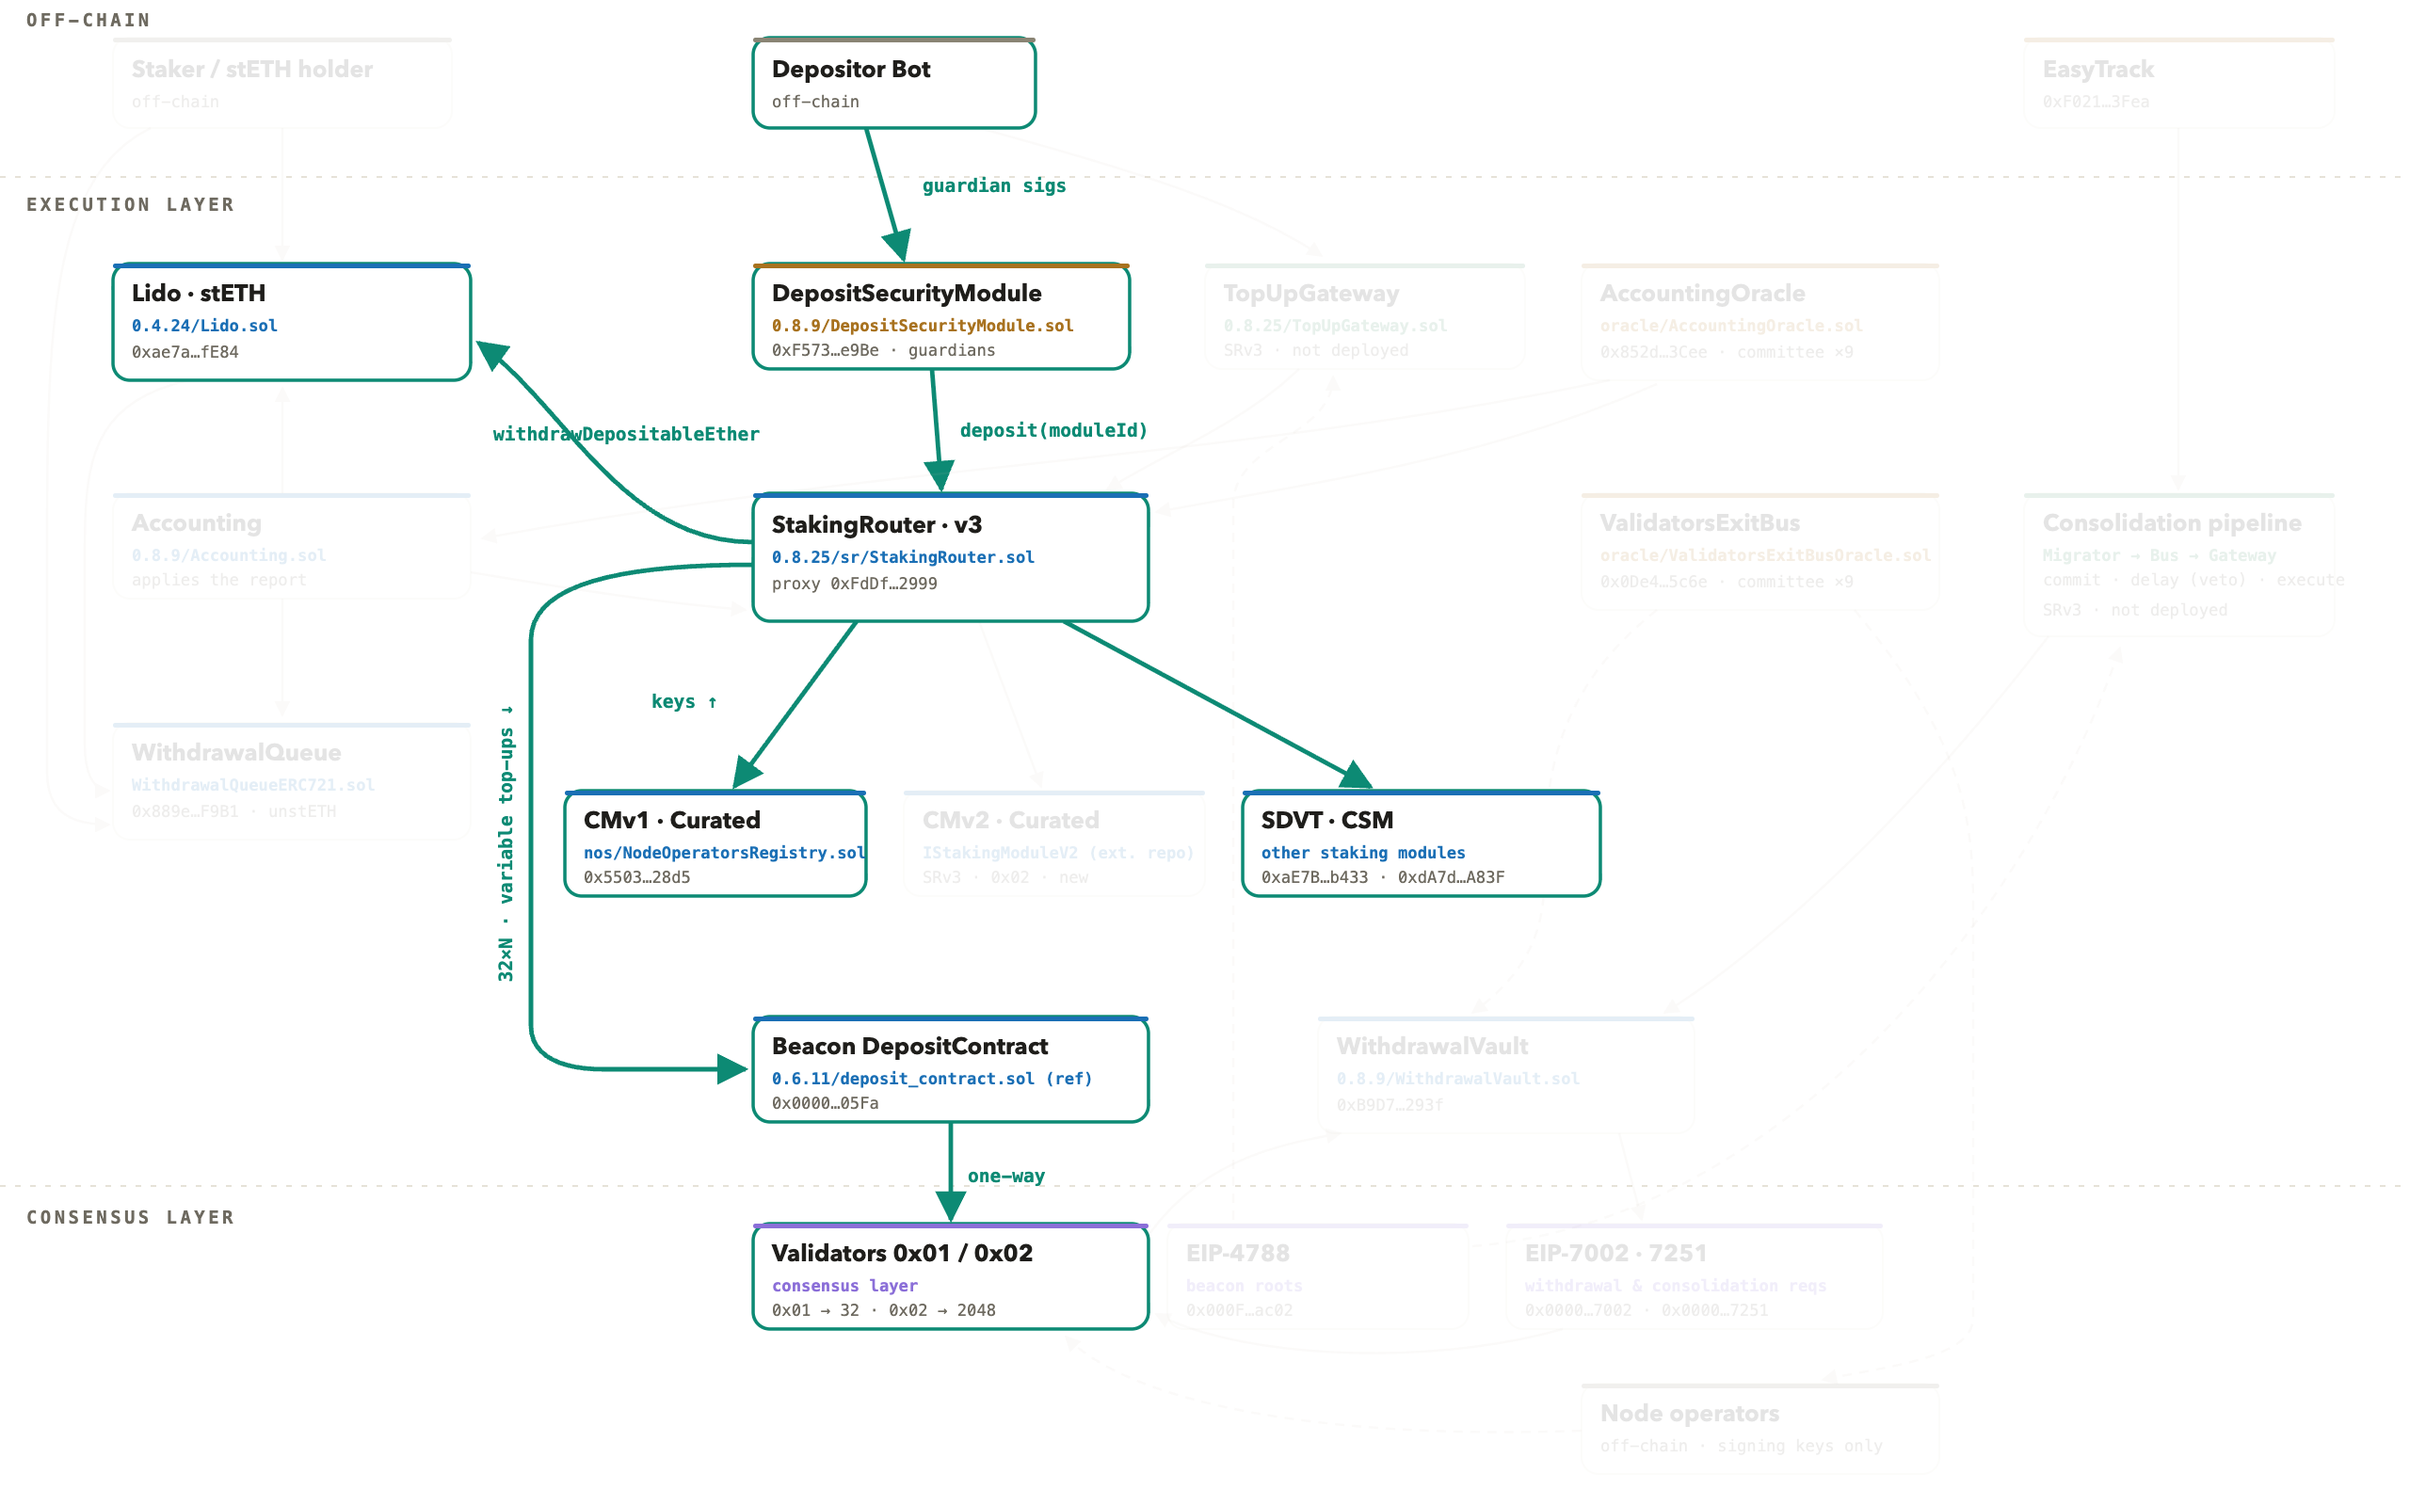
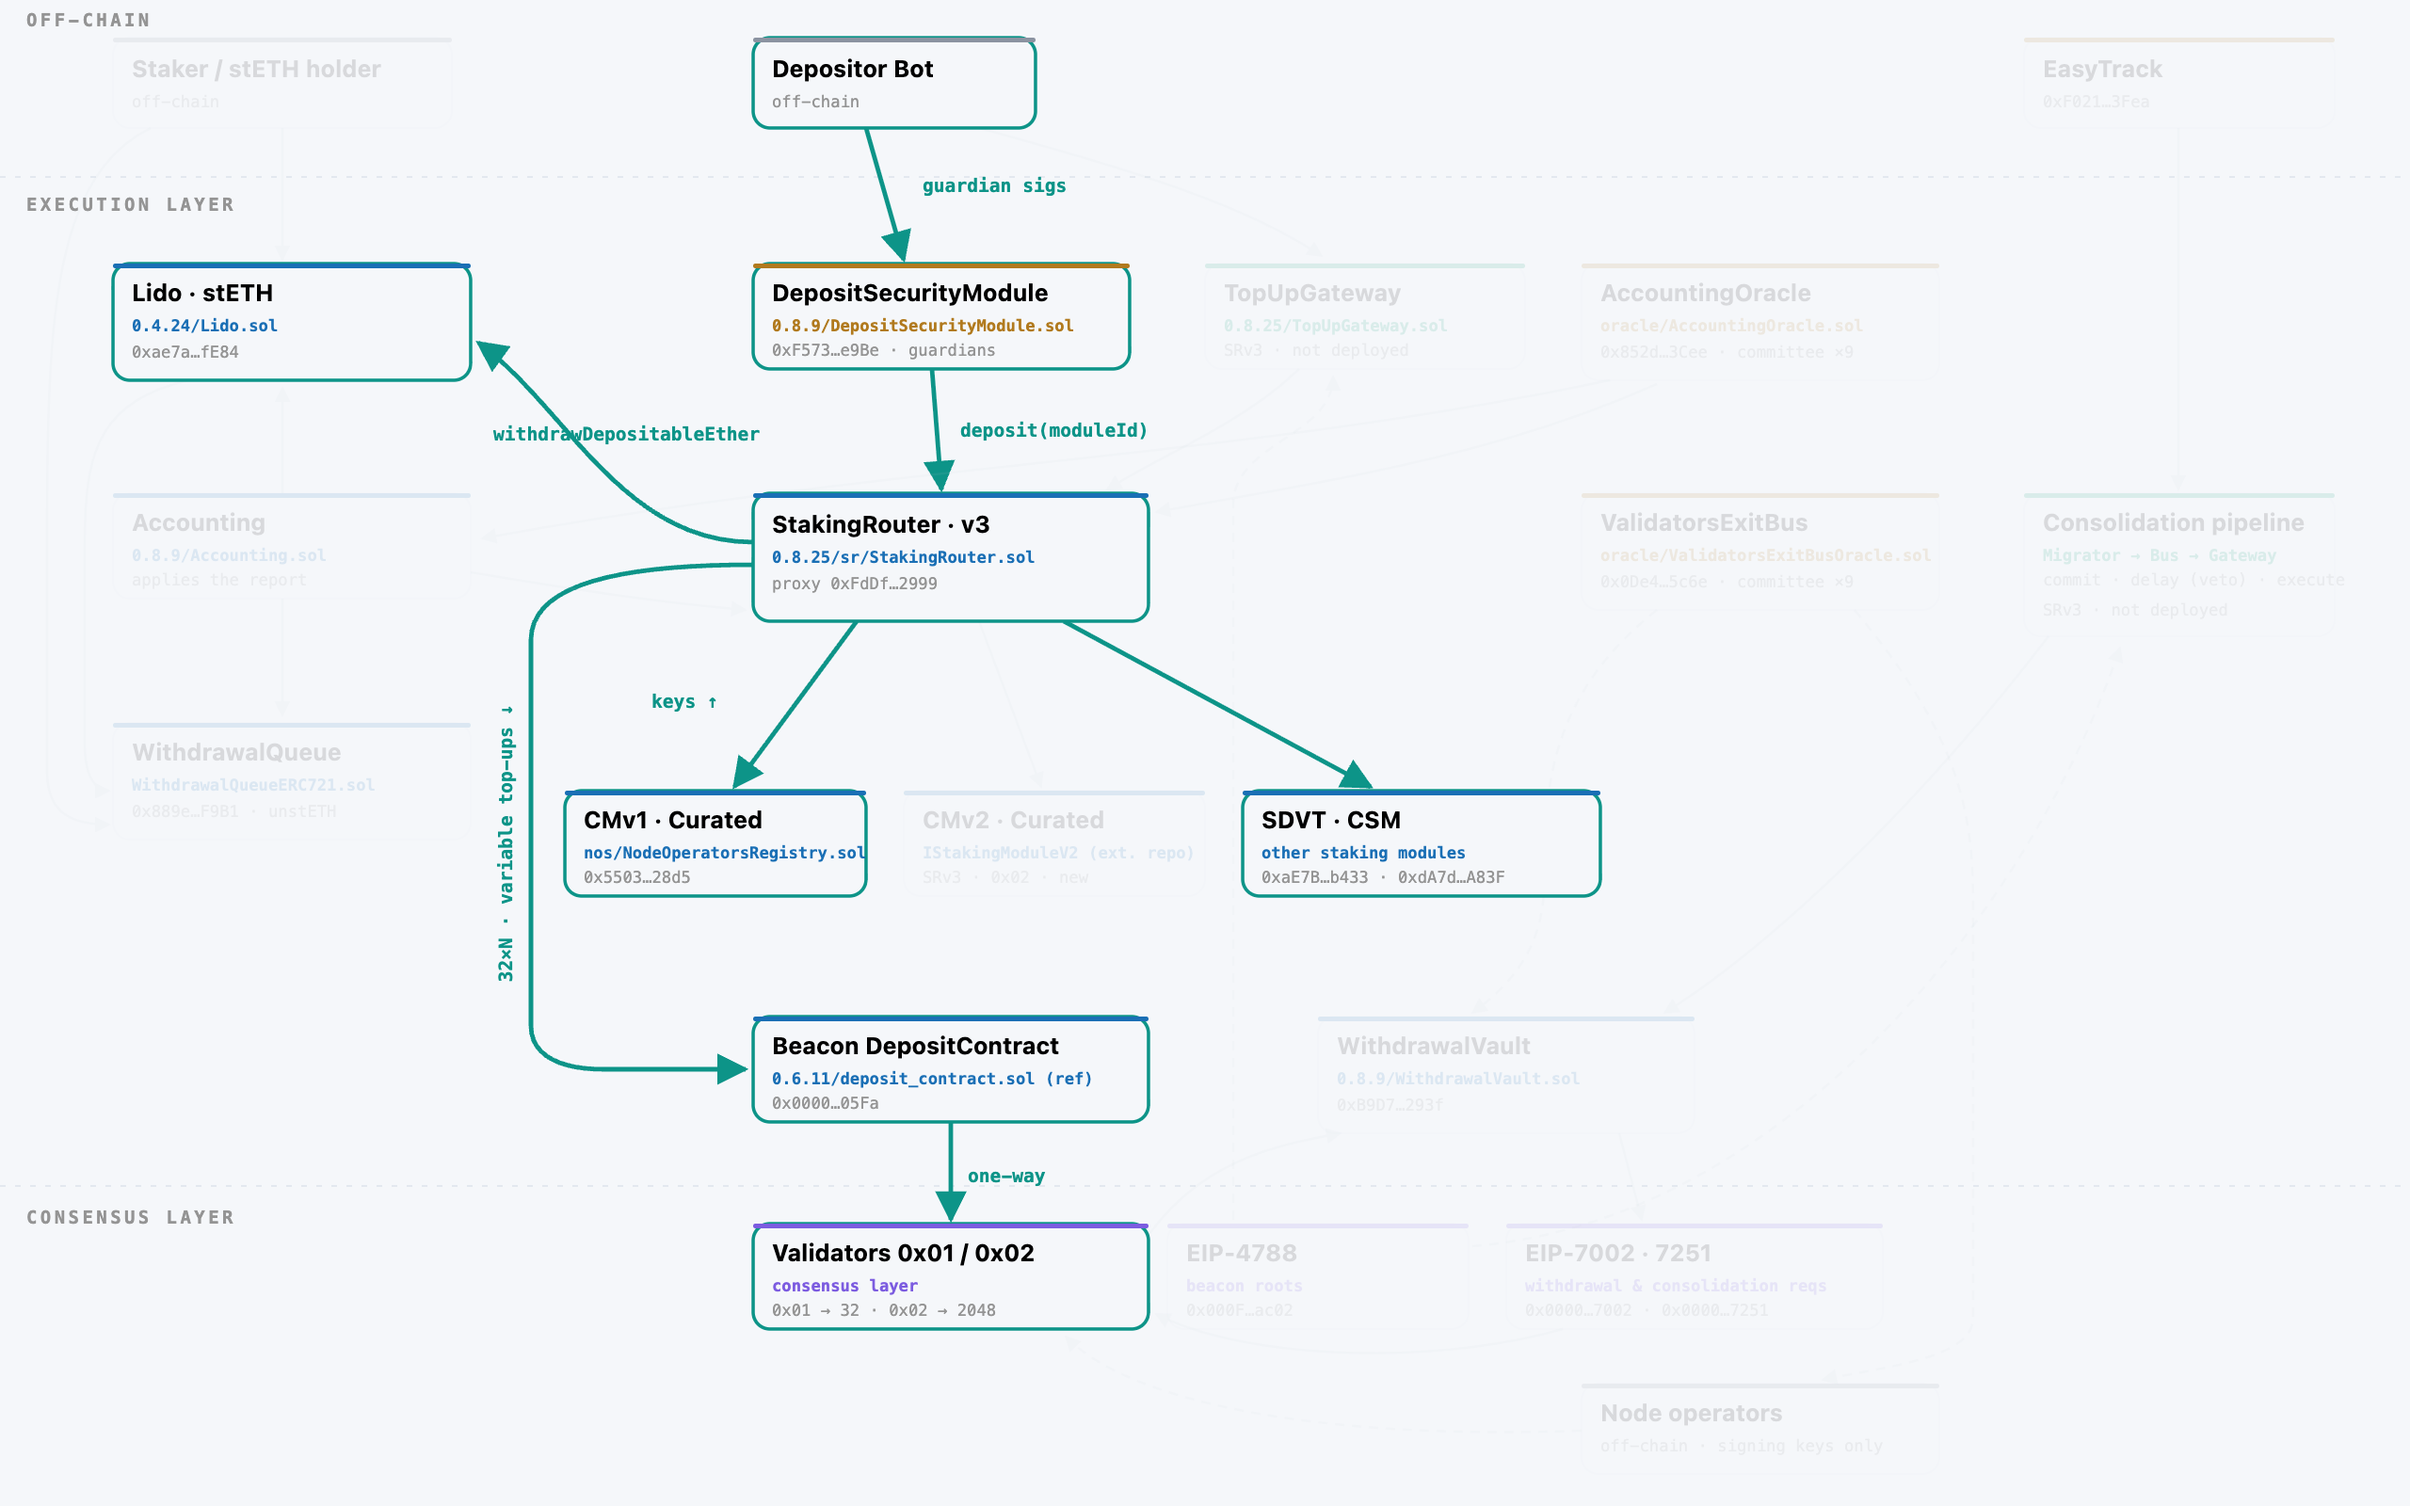
Restyle diagram to match lfglabs.dev design system
Plus Jakarta Sans, teal accent, black headings, #f5f7fa cards on white,
single light theme; exports regenerated with the new palette

diff --git a/diagram/index.html b/diagram/index.html
@@ -3,83 +3,66 @@
 <head>
 <meta charset="utf-8">
 <meta name="viewport" content="width=device-width,initial-scale=1">
+<link rel="preconnect" href="https://fonts.googleapis.com">
+<link rel="preconnect" href="https://fonts.gstatic.com" crossorigin>
+<link href="https://fonts.googleapis.com/css2?family=Plus+Jakarta+Sans:wght@400;500;600;700;800&display=swap" rel="stylesheet">
 <title>Lido Architecture: Components & Flows</title>
 </head>
 <body style="margin:0">
 <style>
   :root{
-    --paper:#faf9f5; --card:#ffffff; --ink:#1f1e1b; --soft:#6e6a60;
-    --line:#e6e2d8; --line2:#f1eee6; --edge:#c7bfae;
-    --accent:#c15f3c;
-    --el:#1a6fb5; --cl:#8b6fd8; --com:#a8721f; --bot:#8a8474; --proof:#3d8a63;
-    --cf1:#1a75c0; --cf2:#0d8a74; --cf3:#67921a; --cf4:#bd7c17; --cf5:#c15f3c; --cf6:#8a5cf6; --cf7:#b44487;
+    --paper:#ffffff; --card:#f5f7fa; --ink:#404040; --heading:#000000; --soft:#949494;
+    --line:#e3e8ef; --line2:#eef1f6; --edge:#c3ccd7;
+    --accent:#2dd4bf; --accent-ink:#0d9488;
+    --el:#1a6fb5; --cl:#7c5ce0; --com:#b17a1e; --bot:#8b93a1; --proof:#0f9e77;
+    --cf1:#1a75c0; --cf2:#0d9488; --cf3:#67921a; --cf4:#bd7c17; --cf5:#d0523a; --cf6:#8a5cf6; --cf7:#b44487;
     --mono:ui-monospace,'SF Mono',Menlo,Consolas,monospace;
-    --serif:'Charter','Iowan Old Style',Georgia,'Times New Roman',serif;
-  }
-  @media (prefers-color-scheme: dark){
-    :root{
-      --paper:#262624; --card:#30302e; --ink:#f0efea; --soft:#b0aa9e;
-      --line:#413f3a; --line2:#393733; --edge:#5c574c;
-      --accent:#d97757;
-      --el:#5aa8e8; --cl:#ab93f2; --com:#d9a34e; --bot:#a09a8c; --proof:#54bd8e;
-      --cf1:#54a4ea; --cf2:#33b89e; --cf3:#9ec13e; --cf4:#dda43e; --cf5:#e28565; --cf6:#a88af8; --cf7:#e07cba;
-    }
-  }
-  :root[data-theme="dark"]{
-    --paper:#262624; --card:#30302e; --ink:#f0efea; --soft:#b0aa9e;
-    --line:#413f3a; --line2:#393733; --edge:#5c574c;
-    --accent:#d97757;
-    --el:#5aa8e8; --cl:#ab93f2; --com:#d9a34e; --bot:#a09a8c; --proof:#54bd8e;
-    --cf1:#54a4ea; --cf2:#33b89e; --cf3:#9ec13e; --cf4:#dda43e; --cf5:#e28565; --cf6:#a88af8; --cf7:#e07cba;
-  }
-  :root[data-theme="light"]{
-    --paper:#faf9f5; --card:#ffffff; --ink:#1f1e1b; --soft:#6e6a60;
-    --line:#e6e2d8; --line2:#f1eee6; --edge:#c7bfae;
-    --accent:#c15f3c;
-    --el:#1a6fb5; --cl:#8b6fd8; --com:#a8721f; --bot:#8a8474; --proof:#3d8a63;
-    --cf1:#1a75c0; --cf2:#0d8a74; --cf3:#67921a; --cf4:#bd7c17; --cf5:#c15f3c; --cf6:#8a5cf6; --cf7:#b44487;
+    --sans:'Plus Jakarta Sans',system-ui,-apple-system,'Segoe UI',Roboto,sans-serif;
   }
 
   body{
     background:var(--paper); color:var(--ink);
-    font-family:"Avenir Next","Segoe UI",-apple-system,"Helvetica Neue",sans-serif;
-    font-size:14.5px; line-height:1.5;
+    font-family:var(--sans);
+    font-size:14.5px; line-height:1.55; letter-spacing:-0.02em;
     padding:clamp(14px,3vw,40px) clamp(10px,2.5vw,28px);
+    -webkit-font-smoothing:antialiased;
   }
   .wrap{max-width:1320px;margin:0 auto}
-  .kicker{font-family:var(--mono);font-size:.62rem;font-weight:700;letter-spacing:.16em;text-transform:uppercase;color:var(--accent);margin-bottom:8px}
-  header h1{font-family:var(--serif);font-size:clamp(1.5rem,3.4vw,2.05rem);font-weight:600;letter-spacing:-.01em;text-wrap:balance}
-  header p{color:var(--soft);max-width:76ch;margin-top:7px;font-size:.88rem}
-  header p b{color:var(--ink);font-weight:600}
+  .kicker{display:inline-flex;align-items:center;font-family:var(--mono);font-size:.62rem;font-weight:700;
+          letter-spacing:.14em;text-transform:uppercase;color:var(--accent-ink);
+          background:rgba(45,212,191,.12);border-radius:999px;padding:3px 11px;margin-bottom:10px}
+  header h1{font-size:clamp(1.5rem,3.4vw,2rem);font-weight:800;letter-spacing:-.03em;color:var(--heading);text-wrap:balance}
+  header p{color:var(--ink);max-width:76ch;margin-top:7px;font-size:.88rem}
+  header p b{color:var(--heading);font-weight:700}
 
-  .legend{display:flex;flex-wrap:wrap;gap:6px;margin-top:10px;font-family:var(--mono);font-size:9.5px}
-  .legend span{display:inline-flex;align-items:center;gap:5px;padding:2px 9px;border-radius:99px;border:1px solid var(--line);background:var(--card);color:var(--soft)}
+  .legend{display:flex;flex-wrap:wrap;gap:6px;margin-top:12px;font-family:var(--mono);font-size:9.5px}
+  .legend span{display:inline-flex;align-items:center;gap:5px;padding:3px 10px;border-radius:99px;background:var(--card);color:var(--soft)}
   .dot{width:7px;height:7px;border-radius:2px;flex:none}
 
   /* flow pills */
   .fbar{display:flex;flex-wrap:wrap;gap:6px;margin:18px 0 8px}
   .pill{
     display:inline-flex;align-items:center;gap:7px;
-    background:var(--card);border:1.5px solid var(--line);border-radius:999px;
-    padding:6px 13px;cursor:pointer;font:inherit;font-size:.78rem;font-weight:600;color:var(--ink);
-    transition:border-color .12s,background .12s;
+    background:#fff;border:1.5px solid var(--line);border-radius:999px;
+    padding:6px 13px;cursor:pointer;font:inherit;font-size:.78rem;font-weight:600;color:var(--heading);
+    letter-spacing:-0.01em;transition:border-color .12s,background .12s;
   }
   .pill i{width:9px;height:9px;border-radius:3px;background:var(--fc);flex:none}
   .pill b{font-family:var(--mono);font-size:.55rem;font-weight:700;letter-spacing:.05em;text-transform:uppercase;
           padding:1px 6px;border-radius:99px;background:var(--line2);color:var(--soft)}
-  .pill b.new{background:var(--fc);color:var(--paper)}
-  .pill[aria-pressed="true"]{border-color:var(--fc);background:color-mix(in srgb,var(--fc) 10%,var(--card))}
-  .pill:focus-visible,.reset:focus-visible{outline:2px solid var(--cf1);outline-offset:2px}
+  .pill b.new{background:var(--fc);color:#fff}
+  .pill[aria-pressed="true"]{border-color:var(--fc);background:color-mix(in srgb,var(--fc) 9%,#fff)}
+  .pill:focus-visible,.reset:focus-visible{outline:2px solid var(--accent);outline-offset:2px}
   .reset{background:none;border:1.5px dashed var(--line);border-radius:999px;color:var(--soft);
          font:inherit;font-size:.75rem;cursor:pointer;padding:6px 13px}
-  .reset:hover{color:var(--ink)}
+  .reset:hover{color:var(--heading);border-color:var(--accent)}
   .fcap{min-height:2.6em;font-size:.78rem;color:var(--soft);margin-bottom:10px;max-width:90ch}
-  .fcap b{font-weight:650}
+  .fcap b{font-weight:700}
   @media (prefers-reduced-motion: reduce){ .pill{transition:none} .edge path,.node rect,.node text{transition:none!important} }
 
   /* diagram */
-  .canvas{overflow-x:auto;-webkit-overflow-scrolling:touch;border:1px solid var(--line);border-radius:16px;background:var(--card);box-shadow:0 1px 3px rgba(31,30,27,.05)}
-  svg{display:block;min-width:1080px;width:100%;height:auto}
+  .canvas{overflow-x:auto;-webkit-overflow-scrolling:touch;border:1px solid var(--line);border-radius:12px;background:#fff;box-shadow:0 1px 2px rgba(0,0,0,.04)}
+  svg{display:block;min-width:1080px;width:100%;height:auto;letter-spacing:0}
   .panhint{display:none;font-size:.7rem;color:var(--soft);text-align:center;margin-top:6px}
   @media (max-width:1120px){ .panhint{display:block} }
   .sep{stroke:var(--line);stroke-dasharray:3 5}
@@ -87,7 +70,7 @@
 
   .node rect.box{fill:var(--card);stroke:var(--line);transition:opacity .15s}
   .node rect.top,.node text{transition:opacity .15s}
-  .node .nm{font:650 12.5px "Avenir Next","Segoe UI",sans-serif;fill:var(--ink)}
+  .node .nm{font:700 12.5px var(--sans);fill:var(--heading)}
   .node .fl{font:600 8.6px var(--mono)}
   .node .ad{font:500 8.6px var(--mono);fill:var(--soft)}
   .node.el .fl{fill:var(--el)} .node.com .fl{fill:var(--com)} .node.proof .fl{fill:var(--proof)}
@@ -105,22 +88,22 @@
   .edge.on path{stroke:var(--hl);stroke-width:2.2}
 
   /* component notes */
-  .notes h2{font-family:var(--serif);font-size:1rem;font-weight:600;color:var(--ink);
+  .notes h2{font-size:.98rem;font-weight:700;letter-spacing:-.01em;color:var(--heading);
      padding-bottom:6px;border-bottom:1px solid var(--line);margin:28px 0 10px}
-  .notes h2 b{font-weight:400;font-style:italic;color:var(--soft);font-size:.88em}
+  .notes h2 b{font-weight:500;color:var(--soft);font-size:.86em}
   .band{display:grid;grid-template-columns:repeat(auto-fill,minmax(230px,1fr));gap:8px}
   .c{background:var(--card);border:1px solid var(--line);border-left:3px solid var(--tc,var(--line));
-     border-radius:9px;padding:9px 12px;display:flex;flex-direction:column;gap:2px}
+     border-radius:10px;padding:10px 12px;display:flex;flex-direction:column;gap:2px}
   .c.el{--tc:var(--el)} .c.cl{--tc:var(--cl)} .c.com{--tc:var(--com)}
   .c.bot{--tc:var(--bot)} .c.proof{--tc:var(--proof)}
-  .c .n{font-weight:650;font-size:.83rem}
-  .c .f{font-family:var(--mono);font-size:.63rem;color:var(--tc,var(--soft));word-break:break-all}
-  .c .a{font-family:var(--mono);font-size:.63rem;color:var(--soft)}
-  .c .r{font-size:.72rem;color:var(--soft);margin-top:2px}
+  .c .n{font-weight:700;font-size:.83rem;color:var(--heading);letter-spacing:-.01em}
+  .c .f{font-family:var(--mono);font-size:.63rem;color:var(--tc,var(--soft));word-break:break-all;letter-spacing:0}
+  .c .a{font-family:var(--mono);font-size:.63rem;color:var(--soft);letter-spacing:0}
+  .c .r{font-size:.72rem;color:var(--ink);margin-top:2px}
 
   footer{margin-top:22px;padding-top:12px;border-top:1px solid var(--line);
-         font-family:var(--mono);font-size:.67rem;color:var(--soft);line-height:1.9}
-  footer a{color:var(--accent)}
+         font-family:var(--mono);font-size:.67rem;color:var(--soft);line-height:1.9;letter-spacing:0}
+  footer a{color:var(--accent-ink)}
 </style>
 
 <div class="wrap">
@@ -388,11 +371,11 @@
 
   /* ------- export current view (active flows included) as PNG / SVG ------- */
   var SVG_CSS = [
-    'text{font-family:"Avenir Next","Segoe UI",-apple-system,sans-serif}',
+    'text{font-family:"Plus Jakarta Sans","Segoe UI",system-ui,sans-serif;letter-spacing:0}',
     '.sep{stroke:var(--line);stroke-dasharray:3 5}',
     '.bandlbl{font:700 9.5px var(--mono);letter-spacing:.18em;fill:var(--soft)}',
     '.node rect.box{fill:var(--card);stroke:var(--line)}',
-    '.node .nm{font:650 12.5px "Avenir Next","Segoe UI",sans-serif;fill:var(--ink)}',
+    '.node .nm{font:700 12.5px "Plus Jakarta Sans","Segoe UI",system-ui,sans-serif;fill:var(--heading)}',
     '.node .fl{font:600 8.6px var(--mono)}',
     '.node .ad{font:500 8.6px var(--mono);fill:var(--soft)}',
     '.node.el .fl{fill:var(--el)}.node.com .fl{fill:var(--com)}.node.proof .fl{fill:var(--proof)}',
@@ -413,7 +396,7 @@
     var src = document.querySelector('.canvas svg');
     var clone = src.cloneNode(true);
     var cs = getComputedStyle(document.documentElement);
-    var names = ['--card','--ink','--soft','--line','--line2','--edge','--el','--cl','--com','--bot','--proof',
+    var names = ['--card','--ink','--heading','--soft','--line','--line2','--edge','--el','--cl','--com','--bot','--proof',
                  '--cf1','--cf2','--cf3','--cf4','--cf5','--cf6','--cf7','--mono'];
     var vars = names.map(function(n){ return n+':'+cs.getPropertyValue(n).trim(); }).join(';');
     var bg = document.createElementNS('http://www.w3.org/2000/svg','rect');

diff --git a/diagram/README.md b/diagram/README.md
@@ -15,8 +15,9 @@ Open `index.html` in a browser (no build step, no dependencies, works offline).
   flows are toggled, as a standalone image (`lido-map-f3.png`,
   `lido-map-f2-f3.svg`, ...).
 
-A hosted copy lives at
-<https://claude.ai/code/artifact/18b32b1e-d8ab-4d38-86b9-5de8552ffcfe>.
+Styling follows the lfglabs.dev design system (Plus Jakarta Sans, teal accent
+`#2dd4bf`, `#f5f7fa` cards on white). The webfont loads from Google Fonts and
+falls back to the system stack offline.
 
 ## exports/
 
